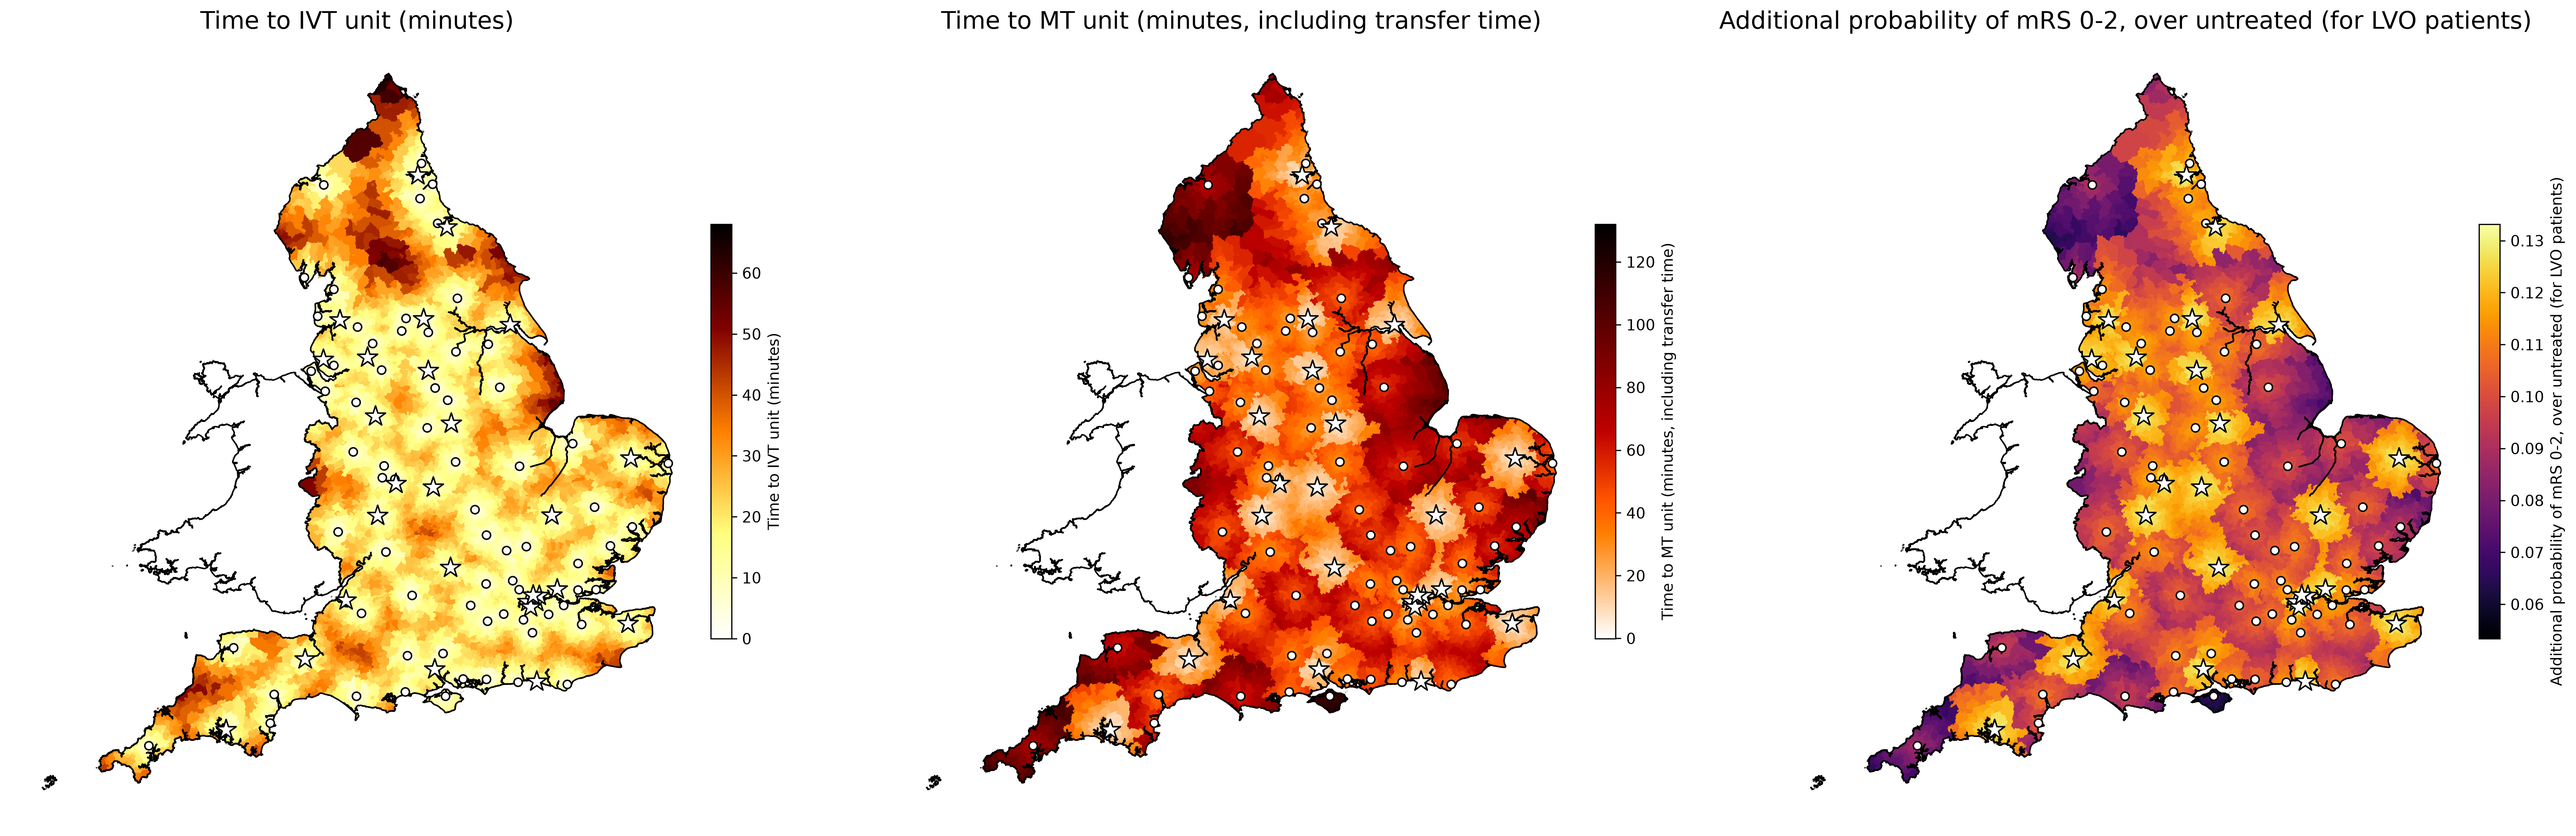
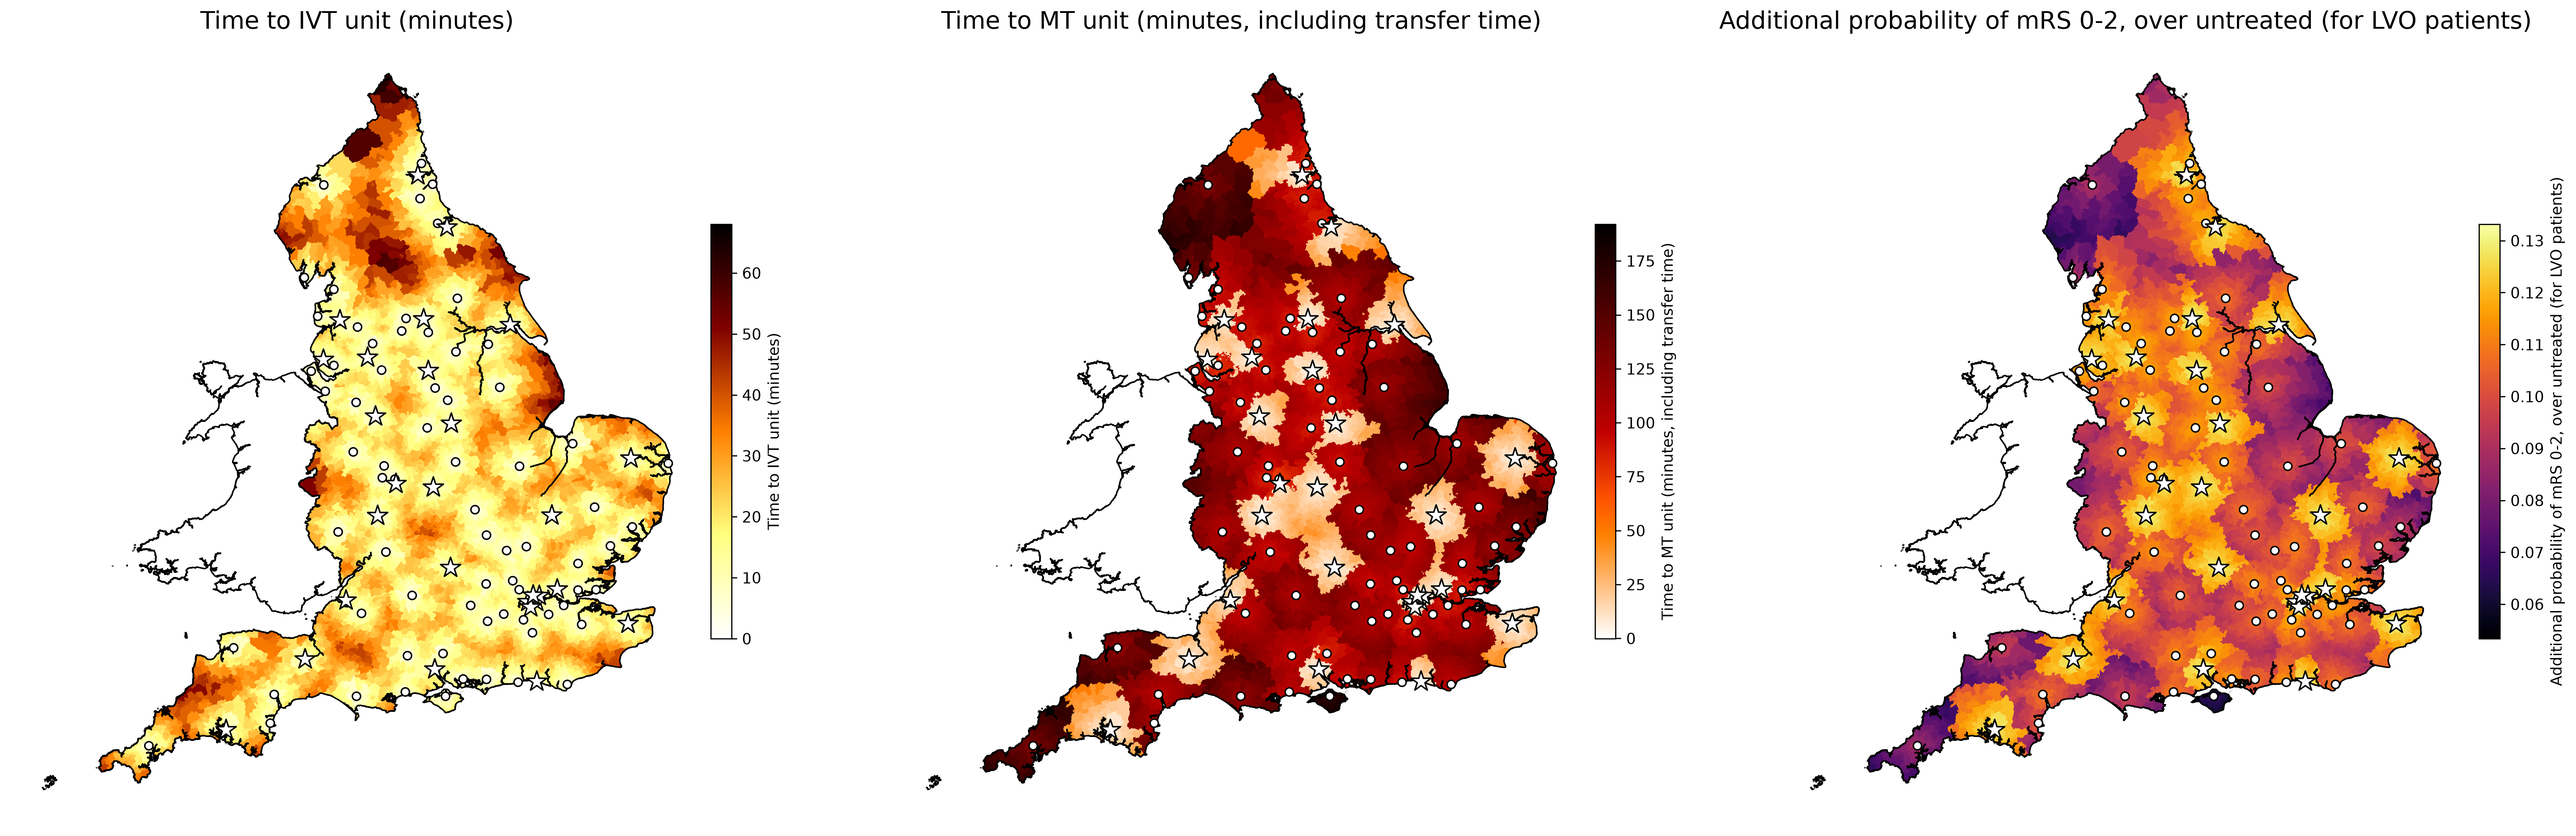
Updates from Overleaf

Changed region(s): [[0.3748, 0.0927, 0.6247, 0.927], [0.6247, 0.3708, 0.6559, 0.4017]]

diff --git a/chapters/4_results.tex b/chapters/4_results.tex
@@ -23,9 +23,9 @@ The first arrival to thrombectomy times (median and quartiles) were:
 
 \subsection{Clinical benefit of reperfusion treatment}
 
-In the current system, without reperfusion treatment the model predicts 26.5\% of LVO patients would achieve mRS 0-2 after 3-6 months. With IVT alone, this would increase to 32.4\% for treated patients, and with IVT and MT there would be a further increase to 37.8\%. If all patients attended their closest MT-capable unit first (a \textit{mothership} model of care) 42.0\% of treated LVO patients  would achieve mRS 0-2 after 3-6 months. Directing as many treatable LVO patients to their closest MT-capable unit would maximise outcomes.
+In the current system, without reperfusion treatment the model predicts 26.5\% of LVO patients would achieve mRS 0-2 after 3-6 months. With IVT alone, this would increase to 32.4\% for treated patients, and with IVT and MT there would be a further increase to 37.8\%. If all patients attended their closest MT-capable unit first (a \textit{mothership} model of care) 42.0\% of treated LVO patients would achieve mRS 0-2 after 3-6 months. Directing as many treatable LVO patients to their closest MT-capable unit would maximise outcomes.
 
-There is significant variation by geography. The proportion of treated patients achieving mRS 0-2 after 3-6 months ranges from 31.8\% to 39.8\% across England (a benefit of treatment of between 5.4 and 13.3 percentage point increase). Those living closest to a MT-capable unit have most benefit from treatment, with least benefit for those with the longest time to MT (a combination of travel time to their closest IVT-only unit and the travel time from that IVT unit to the closest MT-capable unit).
+There is significant variation by geography, even without loss of MT procedures for patients first attending an IVT-only centre. Total travel time to a MT-capable unit, including transfer time when required, but not including other transfer-related delays, ranges from 0 to 192 minutes (including a net non-travel time delay of 60 minutes for transfer). The proportion of treated patients achieving mRS 0-2 after 3-6 months ranges from 31.8\% to 39.8\% across England (a benefit of treatment of between 5.4 and 13.3 percentage point increase in mRS 0-2 at 3-6 months). Those living closest to a MT-capable unit have most benefit from treatment, with least benefit for those with the longest time to MT (a combination of travel time to their closest IVT-only unit and the travel time from that IVT unit to the closest MT-capable unit). 
 
 \subsubsection{Clinical benefit of additional centres}
 
@@ -47,7 +47,7 @@ Figures \ref{fig:map_current_no_loss} to \ref{fig:comparison} show maps of the c
 \begin{figure}[p]
 \centering
 \includegraphics[width=\linewidth]{images/map_three_in_one_current_hospitals_lvo.png} 
-\caption{Modelled times and outcomes for stroke patients with large vessel occlusion receiving thrombolysis (IVT) and thrombectomy (MT), with current planned IVT/MT provision. \textit{Left}: Predicted travel times to closest (in time) IVT unit. \textit{Middle}: Total travel time to MT unit; this includes travel time to closest IVT unit, and travel time from IVT unit to MT unit, but does not include other transfer-related delays. \textit{Right}: The predicted improvement in the proportion of treated LVO patients with mRS 0-2 at 3-6 months, assuming there is no loss of use of MT by first attending an IVT-only unit. Stroke teams are shown as stars (providing both IVT and MT) or circles (providing IVT alone).}
+\caption{Modelled times and outcomes for stroke patients with large vessel occlusion receiving thrombolysis (IVT) and thrombectomy (MT), with current planned IVT/MT provision. \textit{Left}: Predicted travel times to closest (in time) IVT unit. \textit{Middle}: Total travel time to MT unit; this includes travel time to closest IVT unit, a net delay before transfer of 60 minutes, and travel time from IVT unit to MT unit. \textit{Right}: The predicted improvement in the proportion of treated LVO patients with mRS 0-2 at 3-6 months, assuming there is no loss of use of MT by first attending an IVT-only unit. Stroke teams are shown as stars (providing both IVT and MT) or circles (providing IVT alone).}
 \label{fig:map_current_no_loss}
 \end{figure}
 
@@ -55,7 +55,7 @@ Figures \ref{fig:map_current_no_loss} to \ref{fig:comparison} show maps of the c
 \begin{figure}[p]
 \centering
 \includegraphics[width=\linewidth]{images/map_three_in_one_current_hospitals_67_percent_transfer_lvo.png} 
-\caption{Modelled times and outcomes for stroke patients with large vessel occlusion receiving thrombolysis (IVT) and thrombectomy (MT), with current planned IVT/MT provision. \textit{Left}: Predicted travel times to closest (in time) IVT unit. \textit{Middle}: Total travel time to MT unit; this includes travel time to closest IVT unit, and travel time from IVT unit to MT unit, but does not include other transfer-related delays. \textit{Right}: The predicted improvement in the proportion of treated LVO patients with mRS 0-2 at 3-6 months, assuming a 33\% loss of use of MT by first attending an IVT-only unit. Stroke teams are shown as stars (providing both IVT and MT) or circles (providing IVT alone).}
+\caption{Modelled times and outcomes for stroke patients with large vessel occlusion receiving thrombolysis (IVT) and thrombectomy (MT), with current planned IVT/MT provision. \textit{Left}: Predicted travel times to closest (in time) IVT unit. \textit{Middle}: Total travel time to MT unit; this includes travel time to closest IVT unit, a net delay before transfer of 60 minutes, and travel time from IVT unit to MT unit. \textit{Right}: The predicted improvement in the proportion of treated LVO patients with mRS 0-2 at 3-6 months, assuming a 33\% loss of use of MT by first attending an IVT-only unit. Stroke teams are shown as stars (providing both IVT and MT) or circles (providing IVT alone).}
 \label{fig:map_current_lossy}
 \end{figure}
 
@@ -67,7 +67,7 @@ Figures \ref{fig:map_current_no_loss} to \ref{fig:comparison} show maps of the c
 \begin{figure}[p]
 \centering
 \includegraphics[width=\linewidth]{images/map_three_in_one_taunton_and_worcester_lvo.png}  
-\caption{Modelled times and outcomes for stroke patients with large vessel occlusion receiving thrombolysis (IVT) and thrombectomy (MT), with current planned IVT/MT provision, and with the addition of Taunton and Worcester providing MT. \textit{Left}: Predicted travel times to closest (in time) IVT unit. \textit{Middle}: Total travel time to MT unit; this includes travel time to closest IVT unit, and travel time from IVT unit to MT unit, but does not include other transfer-related delays. \textit{Right}: The predicted improvement in the proportion of treated LVO patients with mRS 0-2 at 3-6 months, assuming there is no loss of use of MT by first attending an IVT-only unit. Stroke teams are shown as stars (providing both IVT and MT) or circles (providing IVT alone).}
+\caption{Modelled times and outcomes for stroke patients with large vessel occlusion receiving thrombolysis (IVT) and thrombectomy (MT), with current planned IVT/MT provision, and with the addition of Taunton and Worcester providing MT. \textit{Left}: Predicted travel times to closest (in time) IVT unit. \textit{Middle}: Total travel time to MT unit; this includes travel time to closest IVT unit, a net delay before transfer of 60 minutes, and travel time from IVT unit to MT unit. \textit{Right}: The predicted improvement in the proportion of treated LVO patients with mRS 0-2 at 3-6 months, assuming there is no loss of use of MT by first attending an IVT-only unit. Stroke teams are shown as stars (providing both IVT and MT) or circles (providing IVT alone).}
 \label{fig:map_new_no_loss}
 \end{figure}
 
@@ -75,7 +75,7 @@ Figures \ref{fig:map_current_no_loss} to \ref{fig:comparison} show maps of the c
 \begin{figure}[p]
 \centering
 \includegraphics[width=\linewidth]{images/map_three_in_one_taunton_and_worcester_67_percent_transfer_lvo.png} 
-\caption{Modelled times and outcomes for stroke patients with large vessel occlusion receiving thrombolysis (IVT) and thrombectomy (MT), with current planned IVT/MT provision, and with the addition of Taunton and Worcester providing MT. . \textit{Left}: Predicted travel times to closest (in time) IVT unit. \textit{Middle}: Total travel time to MT unit; this includes travel time to closest IVT unit, and travel time from IVT unit to MT unit, but does not include other transfer-related delays. \textit{Right}:  The predicted improvement in the proportion of treated LVO patients with mRS 0-2 at 3-6 months, assuming a 33\% loss of use of MT by first attending an IVT-only unit. Stroke teams are shown as stars (providing both IVT and MT) or circles (providing IVT alone).}
+\caption{Modelled times and outcomes for stroke patients with large vessel occlusion receiving thrombolysis (IVT) and thrombectomy (MT), with current planned IVT/MT provision, and with the addition of Taunton and Worcester providing MT. . \textit{Left}: Predicted travel times to closest (in time) IVT unit. \textit{Middle}: Total travel time to MT unit; this includes travel time to closest IVT unit, a net delay before transfer of 60 minutes, and travel time from IVT unit to MT unit. \textit{Right}:  The predicted improvement in the proportion of treated LVO patients with mRS 0-2 at 3-6 months, assuming a 33\% loss of use of MT by first attending an IVT-only unit. Stroke teams are shown as stars (providing both IVT and MT) or circles (providing IVT alone).}
 \label{fig:map_new_lossy}
 \end{figure}
 

diff --git a/chapters/7_supplement.tex b/chapters/7_supplement.tex
@@ -12,7 +12,7 @@
 Rank & Hospital Location & \shortstack{Admission Catchment\\Benefiting} & \shortstack{Mean Benefit for\\Those Benefiting} & \shortstack{Relative\\Net Benefit} \\
 \midrule
 1  & Harrow              & 6164 & 0.74 & 1.000 \\
-2  & Taunton             & 2736 & 1.65 & 0.983 \\
+2  & \textbf{Taunton}    & 2736 & 1.65 & 0.983 \\
 3  & Exeter              & 2680 & 1.67 & 0.976 \\
 4  & Watford             & 4980 & 0.87 & 0.944 \\
 5  & Luton and Dunstable & 4456 & 0.96 & 0.930 \\
@@ -32,7 +32,7 @@ Rank & Hospital Location & \shortstack{Admission Catchment\\Benefiting} & \short
 19 & Wolverhampton       & 3279 & 0.86 & 0.615 \\
 20 & High Wycombe        & 5329 & 0.52 & 0.605 \\
 21 & Cheltenham          & 2762 & 1.00 & 0.604 \\
-22 & Worcester           & 2010 & 1.37 & 0.600 \\
+22 & \textbf{Worcester}  & 2010 & 1.37 & 0.600 \\
 23 & Carlisle            & 683  & 4.02 & 0.597 \\
 24 & Lincoln             & 917  & 2.99 & 0.597 \\
 25 & Portsmouth          & 1980 & 1.37 & 0.592 \\
